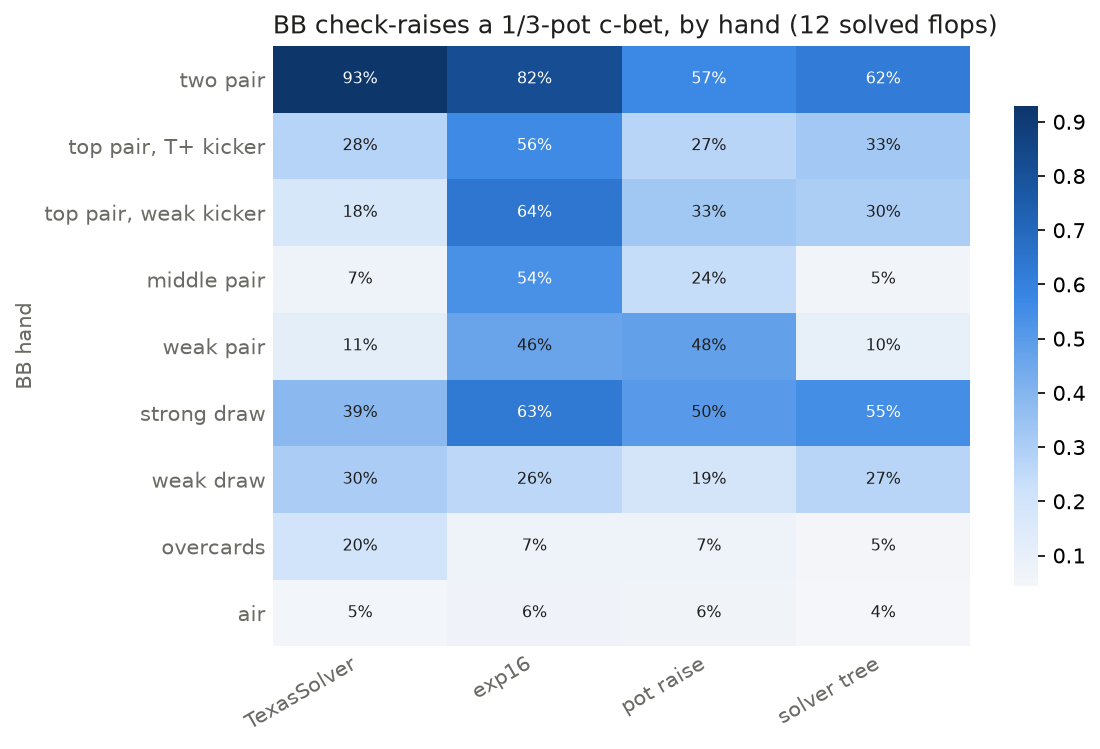
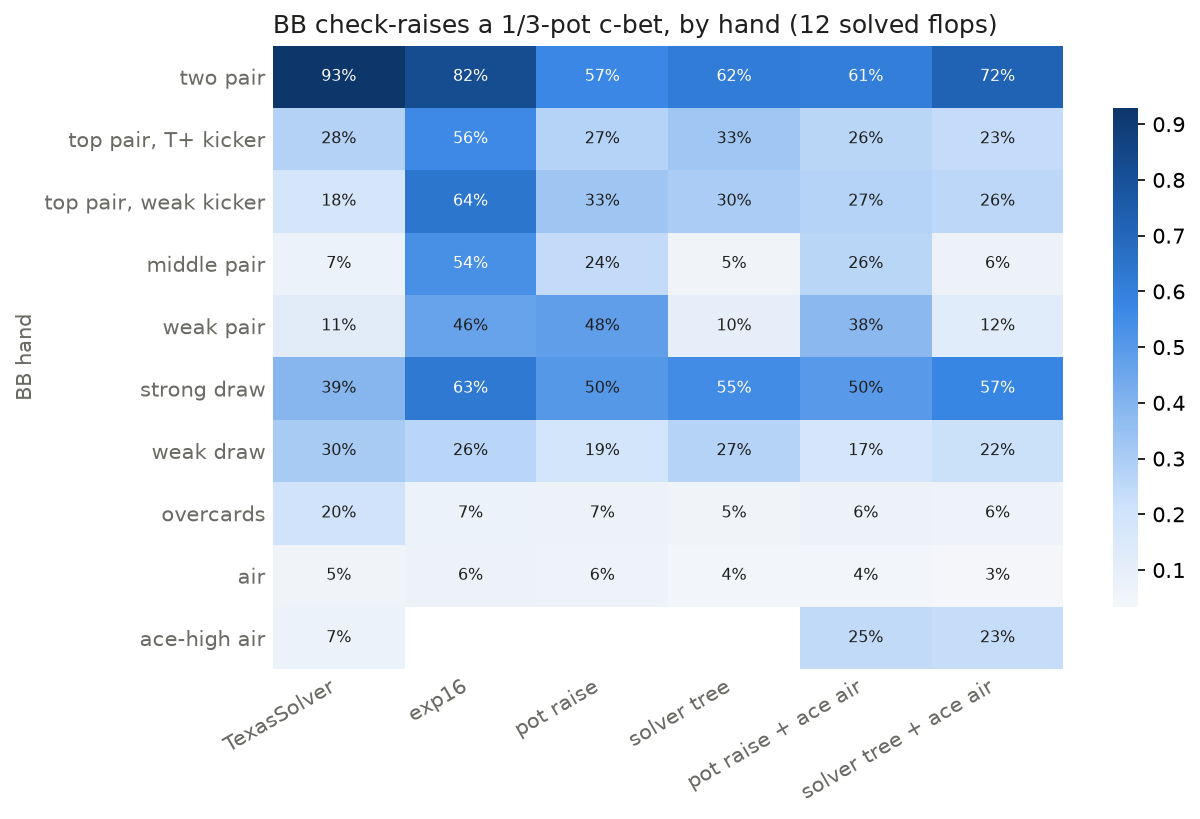
Experiment 23: ace-high air as its own hand group (opts['ace_air'])
Defends ace-high air like the solver (folds 43-57% vs ~90%), but the BB's overall fold rate
vs small c-bets is unchanged: the rest of the gap is ordinary air the solver floats.

diff --git a/scripts/xr_level_study.py b/scripts/xr_level_study.py
@@ -47,8 +47,11 @@ VARIANTS = {
                               {"lead": (2 / 3,), "bet": (2 / 3,)},
                               {"lead": (3 / 4,), "bet": (3 / 4,)})},
 }
+# Experiment 23: the same two trees with ace-high air as its own hand group (opts["ace_air"]).
+VARIANTS["pot raise + ace air"] = {**VARIANTS["pot raise"], "ace_air": True}
+VARIANTS["solver tree + ace air"] = {**VARIANTS["solver tree"], "ace_air": True}
 FOCUS = ["two pair", "overpair", "top pair, T+ kicker", "top pair, weak kicker", "middle pair", "weak pair",
-         "strong draw", "weak draw", "overcards", "air"]
+         "strong draw", "weak draw", "overcards", "air", "ace-high air"]
 
 
 def path_for(name):
@@ -81,8 +84,9 @@ def model_stats(name, d):
     row = {"variant": name, "bb_net": 2.25 - float(d["value_btn"])}
     f = node_freq(d, 0, "btn_vs_check")
     row.update({"btn_cbet": 1 - f[0], "btn_cbet_small": f[1]})
+    air = [10, 11, 12] if shp[2] > fg.NB else [10, 11]
     row["btn_air_cbet"] = 1 - node_freq(d, 0, "btn_vs_check", cell_mask(d["reach_0_btn_vs_check"].shape,
-                                                                        buckets=[10, 11]))[0]
+                                                                        buckets=air))[0]
     for k, n in enumerate(("1/3", "3/4")):
         f = node_freq(d, 0, "bb_vs_bet", cell_mask(shp, size=k))
         row.update({f"bb_fold_vs_{n}": f[0], f"bb_call_vs_{n}": f[1], f"bb_xr_vs_{n}": f[2:].sum()})
@@ -125,48 +129,52 @@ def report():
                                             + list(ag[ag.decision == "bb_raise_vs_big"].model)},
                  "BB check-raise frequency on the 12 solved flops", "Share of the BB's checking range",
                  OUT / "xr_level.png")
-    piv = bk.pivot(index="bucket", columns="variant", values="model_raise")
-    piv.insert(0, "TexasSolver", bk[bk.variant == bk.variant.iloc[0]].set_index("bucket").solver_raise)
-    piv = piv.reindex([b for b in FOCUS if b in piv.index])[["TexasSolver"] + labels]
-    heatmap(piv, "BB check-raises a 1/3-pot c-bet, by hand (12 solved flops)", "", "BB hand",
-            OUT / "xr_by_bucket.png", fmt="pct", figsize=(7.5, 5.2))
+    for col, title, fname in (("raise", "BB check-raises a 1/3-pot c-bet", "xr_by_bucket.png"),
+                              ("fold", "BB folds to a 1/3-pot c-bet", "fold_by_bucket.png")):
+        piv = bk.pivot(index="bucket", columns="variant", values=f"model_{col}")
+        # Solver values from the last (13-group) variant: there, "air" excludes ace-high air.
+        piv.insert(0, "TexasSolver", bk.groupby("bucket")[f"solver_{col}"].last())
+        piv = piv.reindex([b for b in FOCUS if b in piv.index])[["TexasSolver"] + labels]
+        heatmap(piv, f"{title}, by hand (12 solved flops)", "", "BB hand", OUT / fname, fmt="pct",
+                figsize=(8.5 if len(labels) > 3 else 7.5, 5.4))
+        print(piv.round(2).to_string())
 
     pd.set_option("display.width", 220)
     print(st.round(3).to_string(index=False))
     print(ag.round(3).to_string(index=False))
-    print(piv.round(2).to_string())
 
 
-def whatif():
+def whatif(name="solver tree"):
     """Value of folding, calling and raising a flop c-bet for each BB hand group, vs the BTN's actual play.
 
     Values are averaged over all boards in a hand group (per-cell values are too noisy to compare)."""
-    d = np.load(path_for("solver tree"))
+    d = np.load(path_for(name))
     sigma = {(int(k.split("_")[1]), "_".join(k.split("_")[2:])): d[k] for k in d.files if k.startswith("sigma_")}
-    opts = {**VARIANTS["solver tree"], "eval_all": {(0, "bb_vs_bet")}}
+    opts = {**VARIANTS[name], "eval_all": {(0, "bb_vs_bet")}}
     r = oss.ranges_for(2.25)
     _, acc = fg.evaluate(r["btn_range"], r["bb_range"], sigma, opts, s=2.25, stack=100, n=60_000)
     av, reach, strat = -acc.avals[(0, "bb_vs_bet")], acc.reach[(0, "bb_vs_bet")], acc.strat[(0, "bb_vs_bet")]
     rows = []
     for size, sname in enumerate(("1/3", "3/4")):
-        for b, name in enumerate(fg.BUCKETS):
+        for b, hand in enumerate(fg.BUCKETS_ACE[:reach.shape[2]]):
             rr = reach[:, :, b, size].sum()
             if rr <= 0:
                 continue
             v = av[:, :, b, size].reshape(-1, av.shape[-1]).sum(0) / rr
             f = strat[:, :, b, size].reshape(-1, strat.shape[-1]).sum(0) / rr
-            rows.append({"vs": sname, "hand": name, "share": rr / reach[..., size].sum(),
+            rows.append({"vs": sname, "hand": hand, "share": rr / reach[..., size].sum(),
                          "call_minus_fold": v[1] - v[0], "raise_minus_call": v[2] - v[1],
                          "fold": f[0], "call": f[1], "raise": f[2]})
     df = pd.DataFrame(rows)
-    df.round(4).to_csv(OUT / "whatif_by_hand.csv", index=False)
+    df.round(4).to_csv(OUT / f"whatif_by_hand{'' if name == 'solver tree' else '_' + name.replace(' ', '_').replace('+', 'plus')}.csv",
+                       index=False)
     print(df.round(3).to_string(index=False))
 
 
 def main():
     cmd = sys.argv[1] if len(sys.argv) > 1 else "report"
     if cmd == "whatif":
-        whatif()
+        whatif(" ".join(sys.argv[2:]) or "solver tree")
     elif cmd == "train":
         for name in sys.argv[2:] or [v for v in VARIANTS if v != "exp16"]:
             train(name.replace("_", " "))

diff --git a/preflop/fullgame.py b/preflop/fullgame.py
@@ -52,6 +52,8 @@ BUCKETS = ["straight or better", "set / trips", "two pair", "overpair", "top pai
            "top pair, weak kicker", "middle pair", "weak pair", "strong draw", "weak draw", "overcards", "air"]
 RIVER_BUCKETS = BUCKETS[:8] + ["missed strong draw", "missed weak draw", "overcards", "air"]
 NB = len(BUCKETS)
+ACE_AIR = NB                       # opts["ace_air"]: air with an ace in hand gets its own bucket (index 12)
+BUCKETS_ACE = BUCKETS + ["ace-high air"]
 STRONG = (0, 1, 2)                 # hands that can slowplay
 MEDIUM = (4, 5, 6, 7)              # one-pair hands below an overpair: check-call candidates
 WEAK = (9, 10, 11)                 # bluffing hands (weak draws, overcards, air); 8 = strong draw (semi-bluff)
@@ -96,7 +98,7 @@ def table_shapes(opts):
             dims, a = n_actions(kind, s, opts)
             if 0 in dims:
                 continue
-            shapes[(s, kind)] = (N_TEX[s], N_LINES[s], NB) + dims + (a,)
+            shapes[(s, kind)] = (N_TEX[s], N_LINES[s], n_buckets(opts)) + dims + (a,)
     return shapes
 
 
@@ -156,7 +158,11 @@ class Hand:
     __slots__ = ("i", "j", "tex", "bb", "btn", "r")
 
 
-def deal(rng, i, j):
+def n_buckets(opts):
+    return NB + 1 if opts.get("ace_air") else NB
+
+
+def deal(rng, i, j, ace_air=False):
     btn = COMBOS[i][rng.integers(len(COMBOS[i]))]
     bb = COMBOS[j][rng.integers(len(COMBOS[j]))]
     if set(btn) & set(bb):
@@ -172,6 +178,8 @@ def deal(rng, i, j):
         for n in (3, 4, 5):
             prev = fine_bucket(hole, board[:n], prev)
             bs.append(prev)
+        if ace_air and 12 in (hole[0].rank, hole[1].rank):
+            bs = [ACE_AIR if b == 11 else b for b in bs]      # air (no pair, no draw) holding an ace
         setattr(h, name, tuple(bs))
     v_b, v_o = eval7.evaluate(list(btn) + board), eval7.evaluate(list(bb) + board)
     h.r = 1.0 if v_b > v_o else 0.5 if v_b == v_o else 0.0
@@ -182,7 +190,7 @@ def deal(rng, i, j):
 
 AGGRESSIVE = {"bb_first": lambda a: a >= 1, "btn_vs_check": lambda a: a >= 1, "bb_vs_bet": lambda a: a >= 2,
               "btn_vs_xr": lambda a: False, "btn_vs_lead": lambda a: a >= 2, "bb_vs_raise": lambda a: False}
-FLOP_CLASS = [0, 0, 0, 1, 1, 1, 1, 1, 2, 2, 3, 3]     # BTN flop bucket -> strong / pair / draw / air (line stats)
+FLOP_CLASS = [0, 0, 0, 1, 1, 1, 1, 1, 2, 2, 3, 3, 3]  # BTN flop bucket -> strong / pair / draw / air (line stats)
 
 
 def is_check_call(code):
@@ -216,7 +224,7 @@ class Game:
         if o.get("slowplay") is not None and s == 0 and kind == "bb_vs_bet" and b in STRONG:
             sp, nr = o["slowplay"], len(sig) - 2
             return np.array([0.0, sp] + [(1 - sp) / nr] * nr), False, None
-        if o.get("no_early_bluffs") and s < 2 and player == "bb" and b in WEAK:
+        if o.get("no_early_bluffs") and s < 2 and player == "bb" and (b in WEAK or b == ACE_AIR):
             allowed = np.array([not AGGRESSIVE[kind](a) for a in range(len(sig))])
             if not allowed.all():
                 sig = np.where(allowed, sig, 0.0)
@@ -355,6 +363,7 @@ class EvalAcc:
     """Reach-weighted statistics collected while evaluating the average strategy."""
 
     def __init__(self, shapes):
+        NB = next(iter(shapes.values()))[2]                              # 12, or 13 with opts["ace_air"]
         self.strat = {k: np.zeros(v) for k, v in shapes.items()}        # reach x policy
         self.reach = {k: np.zeros(v[:-1]) for k, v in shapes.items()}   # reach
         self.aggr = {p: np.zeros((3, NB)) for p in ("btn", "bb")}       # reach x P(bet / raise / lead)
@@ -393,18 +402,18 @@ def _regret_match(R):
     return np.where(tot > 0, pos / np.where(tot > 0, tot, 1), 1 / R.shape[-1])
 
 
-def _deal_many(btn_w, bb_w, n, seed):
+def _deal_many(btn_w, bb_w, n, seed, ace_air=False):
     rng = np.random.default_rng(seed)
     bi = rng.choice(169, size=n, p=btn_w / btn_w.sum())
     bj = rng.choice(169, size=n, p=bb_w / bb_w.sum())
-    return rng, [h for h in (deal(rng, i, j) for i, j in zip(bi, bj)) if h is not None]
+    return rng, [h for h in (deal(rng, i, j, ace_air) for i, j in zip(bi, bj)) if h is not None]
 
 
 def _train_worker(job):
     btn_w, bb_w, n, seed, regrets, opts, wt, s_pot, stack = job
     sigma = {k: _regret_match(R) for k, R in regrets.items()}
     acc = TrainAcc({k: R.shape for k, R in regrets.items()})
-    rng, hands = _deal_many(btn_w, bb_w, n, seed)
+    rng, hands = _deal_many(btn_w, bb_w, n, seed, opts.get("ace_air", False))
     for h in hands:
         for trav in ("btn", "bb"):
             Game(h, sigma, opts, "train", trav, rng, acc, wt).play(0, s_pot, stack)
@@ -414,7 +423,7 @@ def _train_worker(job):
 def _eval_worker(job):
     btn_w, bb_w, n, seed, sigma, opts, s_pot, stack = job
     acc = EvalAcc({k: v.shape for k, v in sigma.items()})
-    _, hands = _deal_many(btn_w, bb_w, n, seed)
+    _, hands = _deal_many(btn_w, bb_w, n, seed, opts.get("ace_air", False))
     total = 0.0
     for h in hands:
         v = Game(h, sigma, opts, "eval", acc=acc).play(0, s_pot, stack)

diff --git a/scripts/open_size_study.py b/scripts/open_size_study.py
@@ -219,9 +219,15 @@ def model_vs_solver(s, d, flops):
         s_btn, s_bb = sc.solver_flop(flop)
         cards = [eval7.Card(c) for c in flop.split()]
         t = flop_texture(cards)
-        btn_b = np.array([fg.fine_bucket(hole(c), cards) for c in s_btn.combo])
+        ace = btn_sig.shape[2] > fg.NB                                 # model trained with opts["ace_air"]
+
+        def bucket(c):
+            b = fg.fine_bucket(hole(c), cards)
+            return fg.ACE_AIR if ace and b == 11 and "A" in (c[0], c[2]) else b
+
+        btn_b = np.array([bucket(c) for c in s_btn.combo])
         m_btn = btn_sig[t, 0, btn_b]                                  # check, 1/3, 3/4
-        bo = np.array([fg.fine_bucket(hole(c), cards) for c in s_bb.combo])
+        bo = np.array([bucket(c) for c in s_bb.combo])
         m_bb = bb_sig[t, 0, bo, s_bb["size"].to_numpy()]              # fold, call, raise(s)
         w_btn = s_btn["class"].map(wbtn).to_numpy()
         w_bb = s_bb["class"].map(wbb).to_numpy() * first[t, 0, bo, 0]  # model BB range that checked
@@ -238,10 +244,11 @@ def model_vs_solver(s, d, flops):
                 row[f"solver_bb_{a}_vs_{size}"] = float((sv[sel] * w_bb_solver[sel]).sum() / w_bb_solver[sel].sum())
                 row[f"model_bb_{a}_vs_{size}"] = float((mv[sel] * w_bb[sel]).sum() / w_bb[sel].sum())
         rows.append(row)
-        for b in range(fg.NB):
+        names = fg.BUCKETS_ACE if ace else fg.BUCKETS
+        for b in range(len(names)):
             mb = btn_b == b
             if w_btn[mb].sum() > 0:
-                bucket_rows.append({"open": s, "flop": flop, "player": "btn", "bucket": fg.BUCKETS[b],
+                bucket_rows.append({"open": s, "flop": flop, "player": "btn", "bucket": names[b],
                                     "weight": w_btn[mb].sum(),
                                     "solver_bet": float(((1 - s_btn.check[mb]) * w_btn[mb]).sum() / w_btn[mb].sum()),
                                     "model_bet": float(((1 - m_btn[mb, 0]) * w_btn[mb]).sum() / w_btn[mb].sum())})
@@ -249,7 +256,7 @@ def model_vs_solver(s, d, flops):
                 mo = (bo == b) & (s_bb["size"] == k).to_numpy()
                 if w_bb_solver[mo].sum() > 0:
                     bucket_rows.append({"open": s, "flop": flop, "player": f"bb_vs_{'small' if k == 0 else 'big'}",
-                                        "bucket": fg.BUCKETS[b], "weight": w_bb_solver[mo].sum(),
+                                        "bucket": names[b], "weight": w_bb_solver[mo].sum(),
                                         "solver_fold": float((s_bb["fold"][mo] * w_bb_solver[mo]).sum() / w_bb_solver[mo].sum()),
                                         "model_fold": float((m_bb[mo, 0] * w_bb[mo]).sum() / max(w_bb[mo].sum(), 1e-12)),
                                         "solver_raise": float((s_bb["raise"][mo] * w_bb_solver[mo]).sum() / w_bb_solver[mo].sum()),

diff --git a/README.md b/README.md
@@ -1622,10 +1622,47 @@ play, averaged over all boards:
   little: the hands involved are close to break-even. An "ace-high air" group would be the next refinement
   if this matters.
 
+## Experiment 23: Giving ace-high air its own hand group
+
+`scripts/xr_level_study.py` (same commands; two new variants). New in `fullgame.py`: **`opts["ace_air"]`**
+puts air hands holding an ace (no pair, no draw) in a 13th hand group. The default stays 12 groups, and a
+quick training run gives bit-identical values before and after.
+
+Experiment 22 found the BB folds 42% to a 1/3-pot c-bet vs the solver's 29%, mostly because it folds
+nearly all air: the solver keeps ace-high air (folds only 15%). Both 2.25bb / 100bb models (pot raise,
+and the solver-like tree) were retrained with ace-high air split out.
+
+![BB folds by hand](output/xr_level/fold_by_bucket.png)
+
+(In the three 12-group columns, "air" still includes ace-high air.)
+
+| On the 12 solved flops | TexasSolver | pot raise | + ace air | solver tree | + ace air |
+|---|---|---|---|---|---|
+| BB folds **ace-high air** vs 1/3 | **15%** | (90%, inside "air") | **57%** | (91%, inside "air") | **43%** |
+| BB folds other air vs 1/3 | 72% | – | 93% | – | 95% |
+| BB folds vs 1/3, all hands | 29% | 42% | 43% | 42% | 42% |
+| BB check-raises vs 1/3 | 18% | 20% | 19% | 17% | 16% |
+| BB net per called pot (all flops) | – | −0.88 | −0.89 | −0.83 | −0.84 |
+
+* **The split works for the hands it targets.** Once the model can see them, ace-high air is defended far
+  more: it folds 43–57% instead of ~90%. Its "what if" value backs this up: calling is **+0.40bb** better
+  than folding (all boards, solver tree), and the model now calls 64% of the time and folds only 21%.
+* **The overall fold rate doesn't move** (42–43%). Ace-high air is only ~3% of the BB's checking range,
+  and the remaining air folds slightly *more* (93–95%), because the defended aces are no longer averaged
+  in.
+* **The rest of the gap is ordinary air.** The solver defends 28% of non-ace air (it folds 72%) and 78% of
+  overcards. For the model, calling with ordinary air loses **0.45bb** vs folding, so it folds. The
+  solver's floats depend on card details the 13 groups don't capture (backdoor combinations, blockers,
+  specific runouts). Each such hand is close to break-even, so the gap costs little.
+* **Kept as an option, not the new default.** It doesn't change the BB's results or the check-raise
+  level, and it adds a group to every table.
+
+Data: `xr_by_bucket.csv` and `whatif_by_hand_solver_tree_plus_ace_air.csv`.
+
 ## Next steps
 
-1. **Split "air" into ace-high / other**, so the BB can defend ace-high air like the solver (experiment 22).
-   New models use pot-sized raises (`OPTS_POT`).
+1. **New models use pot-sized raises** (`OPTS_POT`, experiment 22). Ace-high air is available as an option
+   (`ace_air`, experiment 23); the remaining air gap vs the solver would need card-level features.
 2. **Learn the opponent model from data:** estimate a real opponent's donk frequencies by hand from hand
    histories, instead of picking from three fixed profiles.
 3. **Preflop bluffs from postflop play:** feed the whole-hand values back into the preflop solver.
